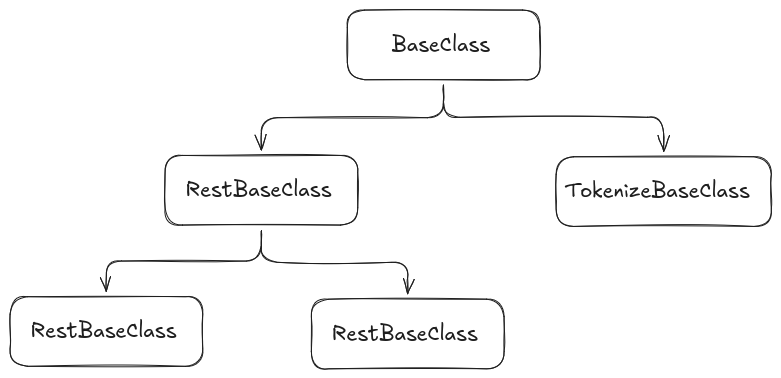
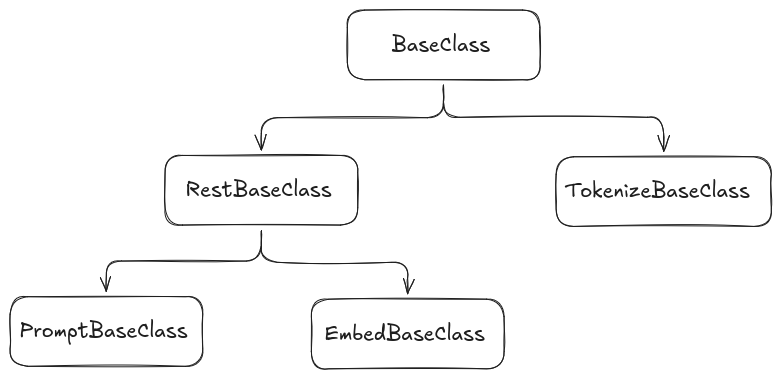
fixed issue with documents generation

Changed region(s): [[0.0307, 0.8439, 0.2458, 0.9021], [0.3995, 0.8439, 0.6146, 0.9021]]

diff --git a/docs/tokenize_interface.md b/docs/tokenize_interface.md
@@ -1,5 +1,5 @@
 
-# Service Interface: `prompt/tokenizer`
+# Tokenizer Service Interface
 
 The tokenization service interface is `prompt/tokenizer`, using the [Tokenize.srv](../prompt_msgs/srv/Tokenize.srv) definition. `prompt_bridge` selects the tokenizer plugin from `input.model_family` and executes tokenization locally or through the provider implementation.
 

diff --git a/docs/prompt_interface.md b/docs/prompt_interface.md
@@ -1,5 +1,5 @@
 
-# Service Interface: `prompt/prompt`
+# Prompt Service Interface
 
 The main service interface for sending prompts and receiving responses is `prompt/prompt`, using the [Prompt.srv](../prompt_msgs/srv/Prompt.srv) definition. `prompt_bridge` can load multiple prompt providers concurrently and dispatch each request by `model_family`.
 

diff --git a/docs/embed_interface.md b/docs/embed_interface.md
@@ -1,5 +1,5 @@
 
-# Service Interface: `prompt/embedding`
+# Embedding Service Interface
 
 The embedding service interface is `prompt/embedding`, using the [Embedding.srv](../prompt_msgs/srv/Embedding.srv) definition. `prompt_bridge` selects the embedding provider from `input.model_family` and forwards the request to the matching plugin.
 

diff --git a/docs/class_structure.md b/docs/class_structure.md
@@ -1,4 +1,4 @@
-# Class Structure: prompt_base Package
+# Class Structure
 
 This document provides an overview of the main classes and their relationships in the `prompt_base` package. The package is designed to provide base classes and utilities for prompt handling, embedding, REST interfaces, and tokenization.
 
